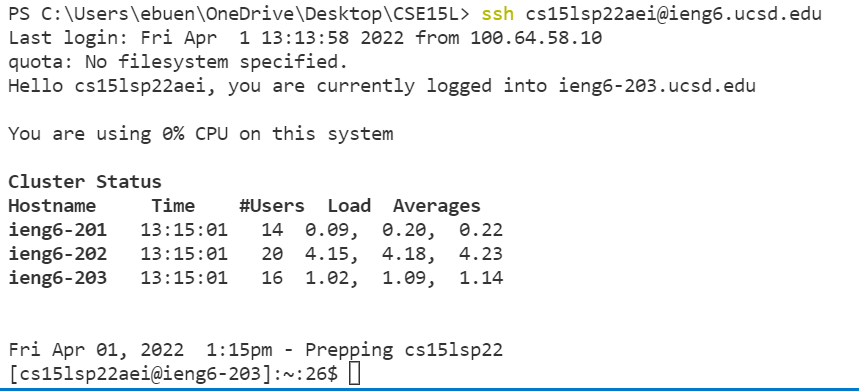
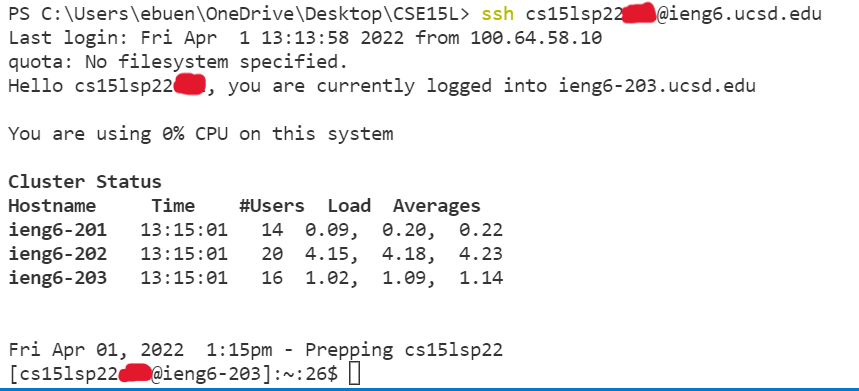
first 2 parts completed

Changed region(s): [[0.7264, 0.0, 0.787, 0.0614], [0.1816, 0.1841, 0.2421, 0.2455], [0.1211, 0.9207, 0.1816, 0.9821]]

diff --git a/lab-report-1-week-2.md b/lab-report-1-week-2.md
@@ -1,1 +1,49 @@
+# **Lab Report 1**
+>## *How to log in to log into a course-specific account on ieng6*
+
+### **Installing VScode (*for windows*)**
+Installing VScode is actually fairly easy, the only thing you need to do is go to the Visual Studio Code website and download the program directly from there.
+
+Here is the website for your convenience: [https://code.visualstudio.com/](https://code.visualstudio.com/)
+
+![alt text](VScode_install.png)
+>*an example of what the VScode downloading page should look like*
+
+
+Once you've downloaded VScode onto your desktop, the starting page should look something similar to this:
+![alt text](VScode_start.png)
+If you see this page (and or something similar), then you have successfully completed installing VScode and can continue to the next step!
+
+### **Remotely Connecting**
+The first step of connecting to a remote computer through your CS15L assigned account is to change its password.
+
+To accomplish this, go to the website: [https://sdacs.ucsd.edu/~icc/index.php](https://sdacs.ucsd.edu/~icc/index.php) and sign in through *Account Lookup* with your UCSD username and PID.
+![alt text](account_lookup.png)
+>the *Account Lookup* screen
+
+
+After logging in, you'll be able to see your assigned CS15L account, as well as click the button that says change password.
+![alt text](change_password.png)
+>you can see your CS15L account under *Additional Accounts* and can change your password by cliking on the link circled in red
+
+
+*WARNING*: when you change your CS15L account password, it'll also change your triton link password too!
+
+Now with your new password, you'll be able to connect remotely! Firstly, open a new terminal by going to the *Terminal* tab and click *New Terminal*.
+
+Then use the *Secure Shell* command to log in to your CS15L account by typing: `ssh <CS15L username>@ieng6.ucsd.edu` into the terminal and put in your password
+
+*WARNING*: you won't be able to see your password being typed, it'll appear as if you're typing nothing
+
+If you see something similar to *Cluster Status* after you log in, that's when you know you succesfully connected remotely!
+
 ![alt text](image13.png)
+>an example of what a succesful login looks like
+
+### **Trying Some Commands**
+
+### **Moving Files with *scp***
+
+### **Setting an SSH Key**
+
+### **Optimizing Remote Running**
